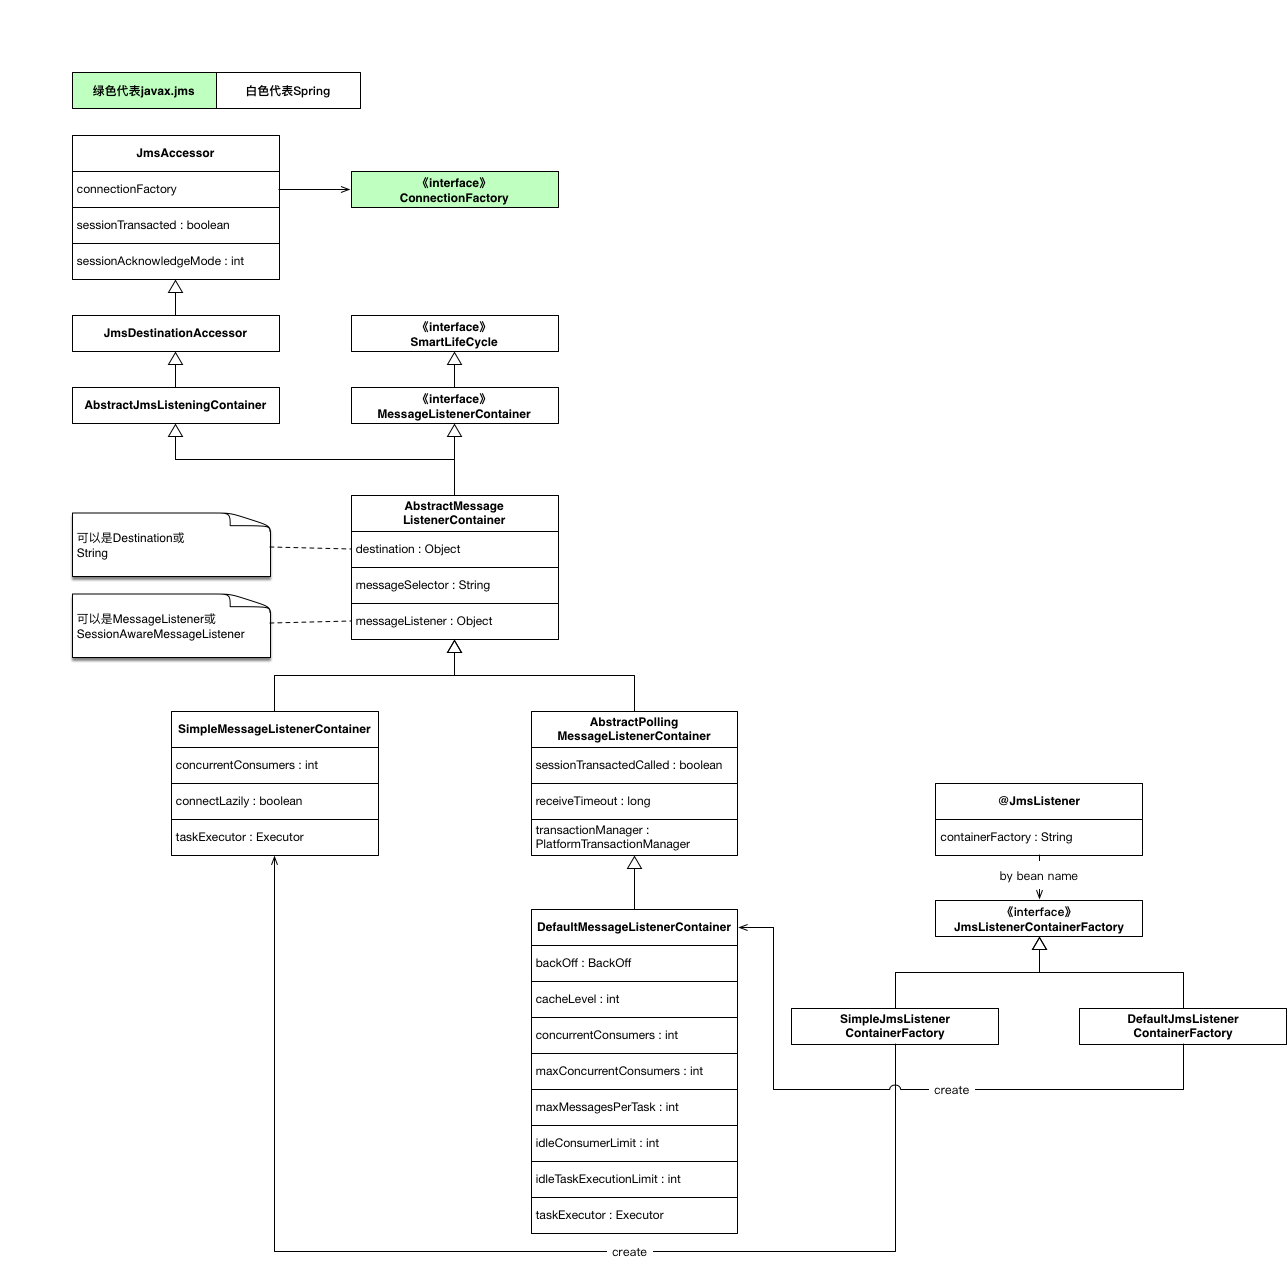
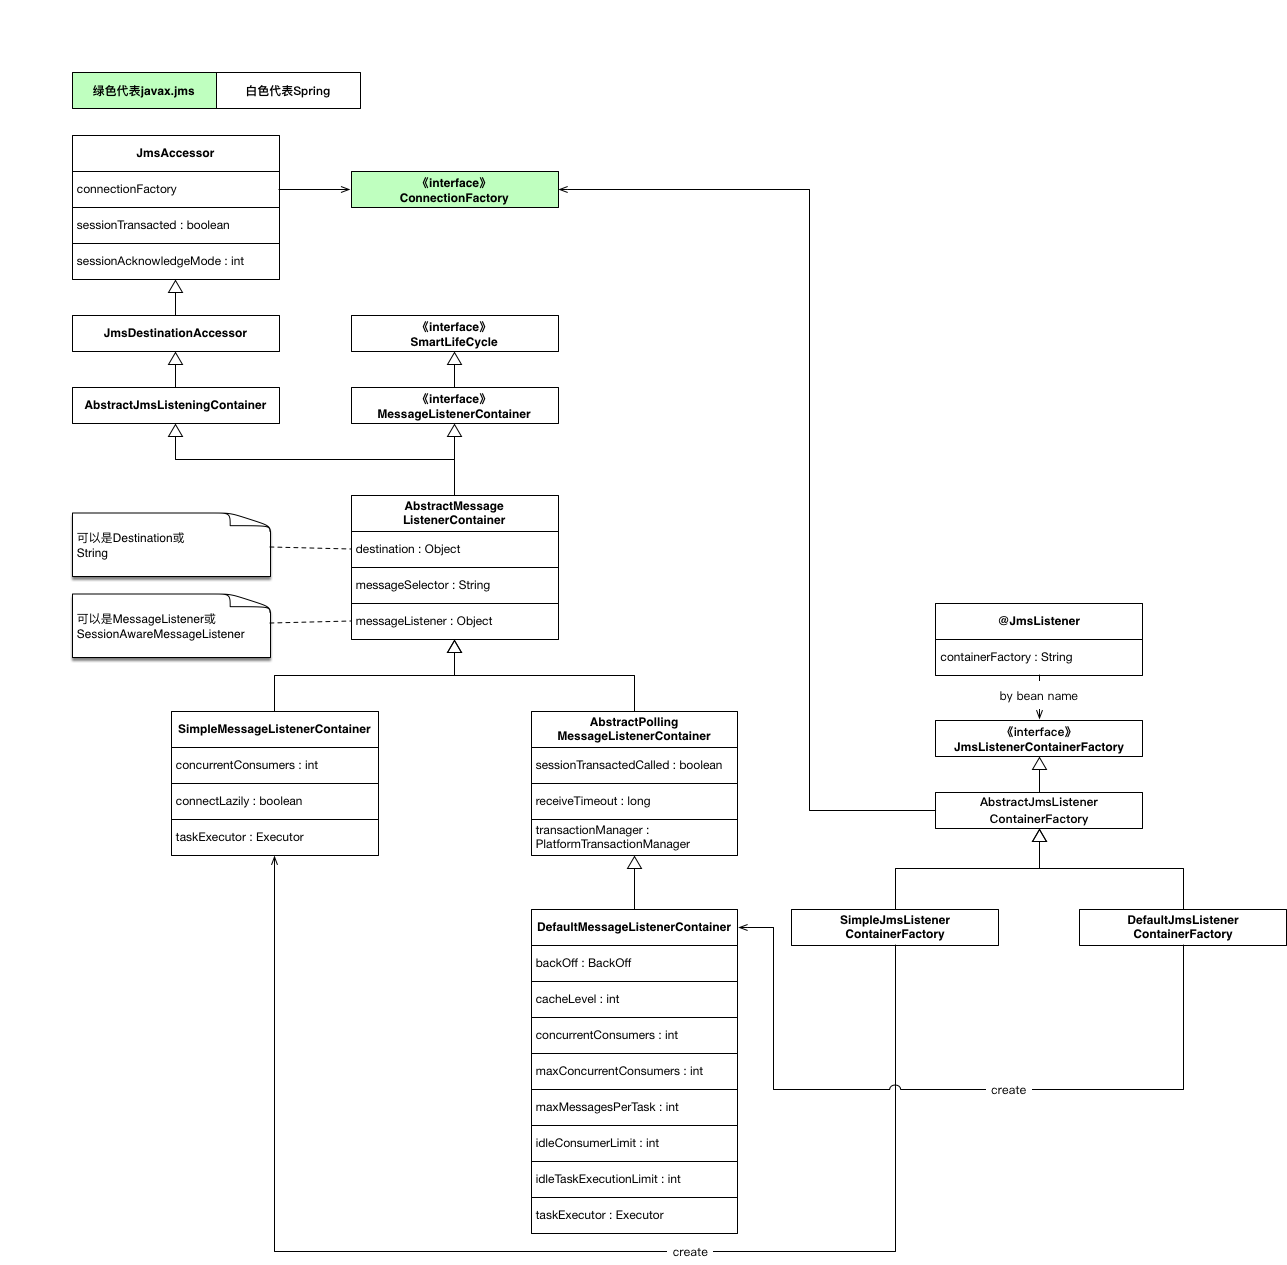
完善文章

diff --git a/README.md b/README.md
@@ -154,10 +154,22 @@ else {
 
 Spring提供了两种JmsListenerContainerFactory实现：
 
-1. [DefaultJmsListenerContainerFactory][javadoc-DefaultJmsListenerContainerFactory]，用来生产DefaultMessageListenerContainer
+1. [DefaultJmsListenerContainerFactory][javadoc-DefaultJmsListenerContainerFactory]，用来生产DefaultMessageListenerContainer，Spring Boot提供``DefaultJmsListenerContainerFactoryConfigurer``作为配置工具
 1. [SimpleJmsListenerContainerFactory][javadoc-SimpleJmsListenerContainerFactory]，用来生产SimpleMessageListenerContainer
 
 所以在使用``@JmsListener``需要仔细的选择正确的``JmsListenerContainerFactory``，而不是全局采用一种配置。
+
+## 总结
+
+使用Spring JMS时有需要注意以下三点：
+
+1. 根据实际情况，配置合适的ConnectionFactory Bean，如有需要可以有多个ConnectionFactory Bean。
+1. JmsTemplate, MessageListenerContainer, JmsListenerContainerFactory需根据实际情况配置不同Bean，避免全局使用一套。
+1. JmsTemplate, MessageListenerContainer, JmsListenerContainerFactory选择合适的ConnectionFactory。
+
+下面是一张各个组件的关系图。
+
+![关系图][uml-relation]
 
 ## 参考资料
 
@@ -190,3 +202,4 @@ Spring提供了两种JmsListenerContainerFactory实现：
 [javadoc-JmsListenerContainerFactory]: https://docs.spring.io/spring-framework/docs/4.3.9.RELEASE/javadoc-api/org/springframework/jms/config/JmsListenerContainerFactory.html
 [javadoc-DefaultJmsListenerContainerFactory]: https://docs.spring.io/spring-framework/docs/4.3.9.RELEASE/javadoc-api/org/springframework/jms/config/DefaultJmsListenerContainerFactory.html
 [javadoc-SimpleJmsListenerContainerFactory]: https://docs.spring.io/spring-framework/docs/4.3.9.RELEASE/javadoc-api/org/springframework/jms/config/SimpleJmsListenerContainerFactory.html
+[uml-relation]: uml/类图-关系.png
